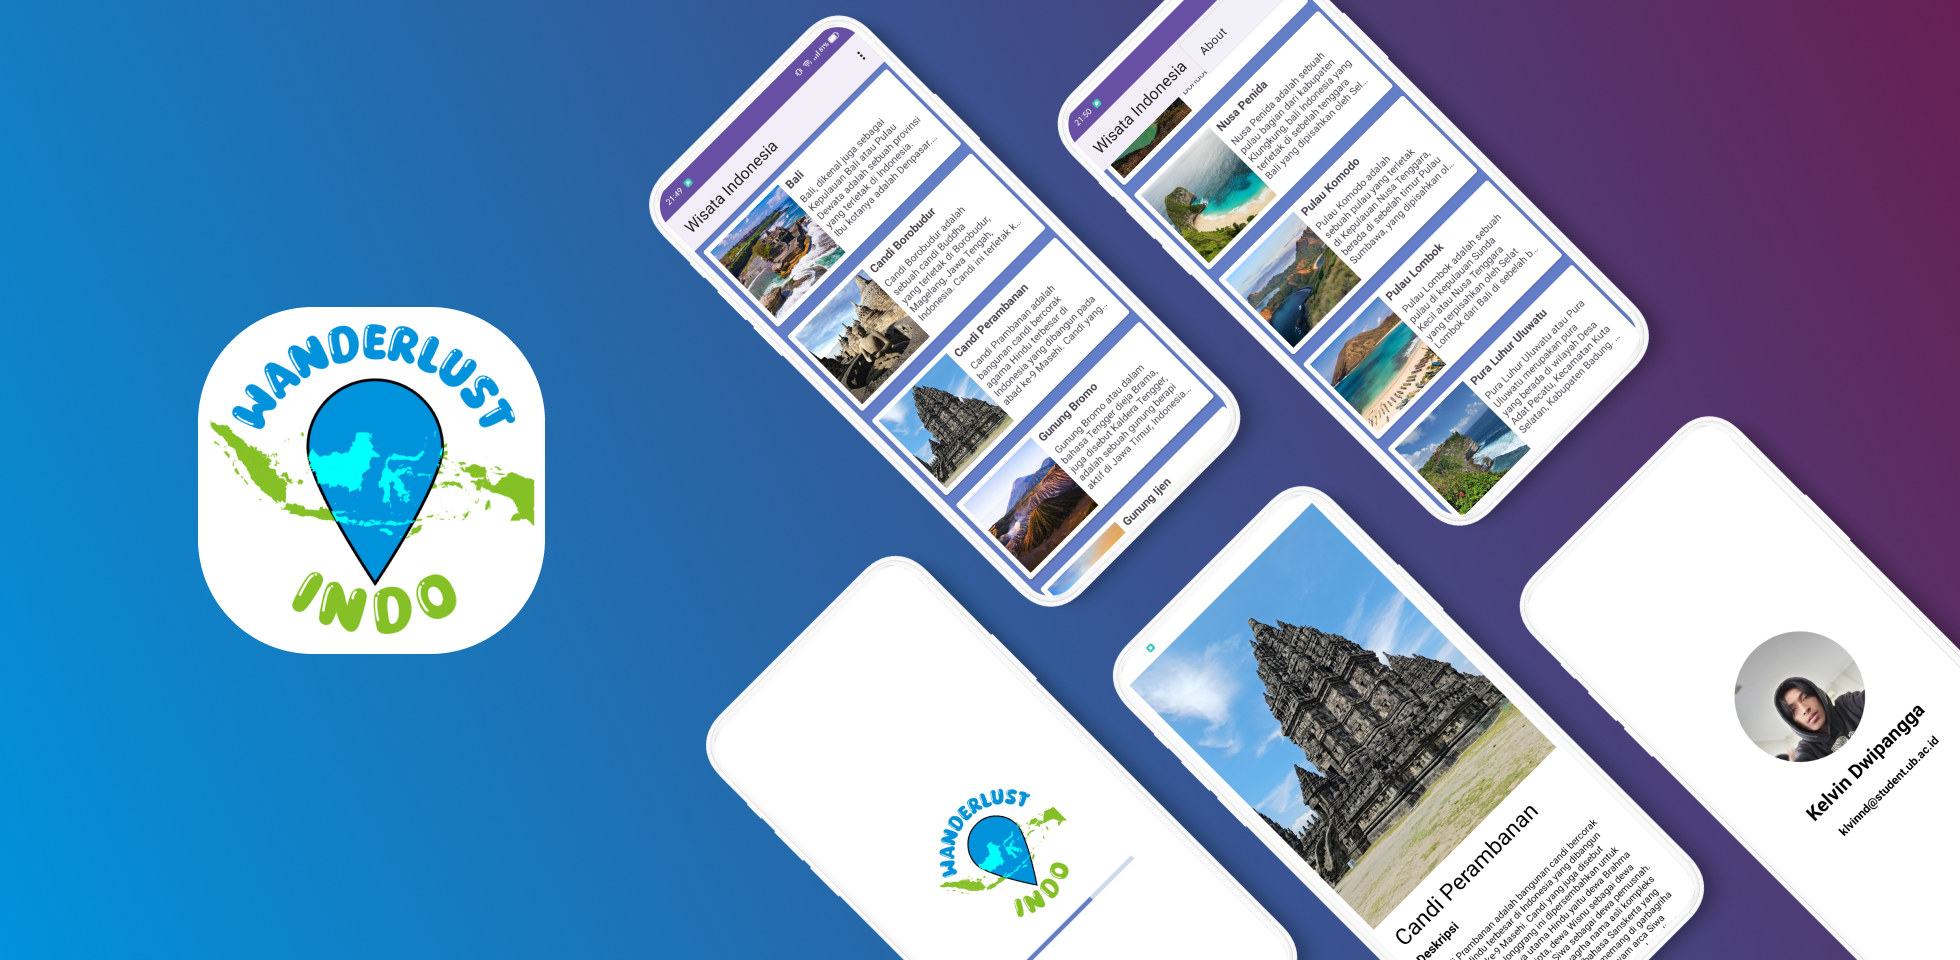
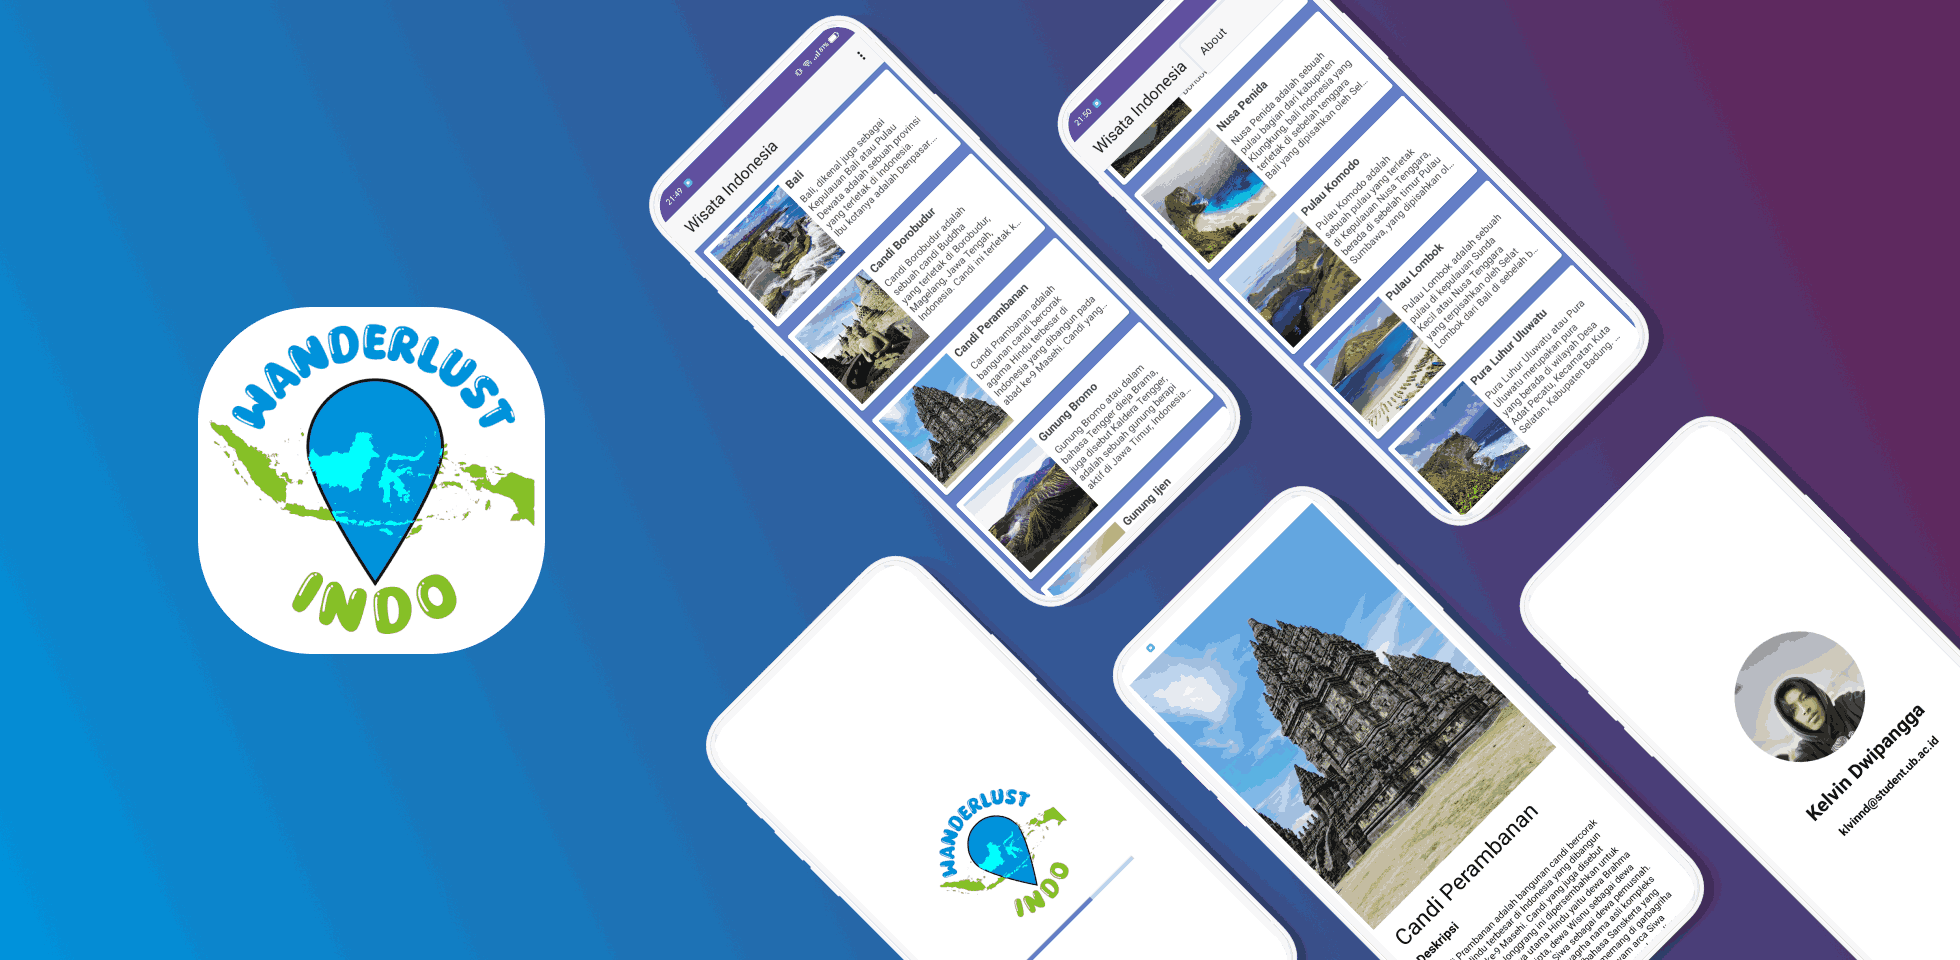
update: compress img

diff --git a/index.html b/index.html
@@ -72,7 +72,6 @@
                             <i class="fas fa-envelope mx-2"></i>
                             <span>klvinnd@student.ub.ac.id</span>
                         </li>
-                        
                     </ul>
                     <div class="card-body d-flex justify-content-center">
                         <a class="mx-2" href="https://github.com/klvnd" target="_blank"><i class="fab fa-github"></i></a>
@@ -147,7 +146,7 @@
                     <li class="list-group-item">
                         <div class="row align-items-center">
                             <div class="col-md-6">
-                                <img src="assets/img/cacerdetecai.png" class="img-fluid" alt="">
+                                <img src="assets/img/cancerdetecai.png" class="img-fluid" alt="">
                             </div>
                             <div class="col-md-6 mt-3">
                                 <h3>CancerDetectionAI</h3>
